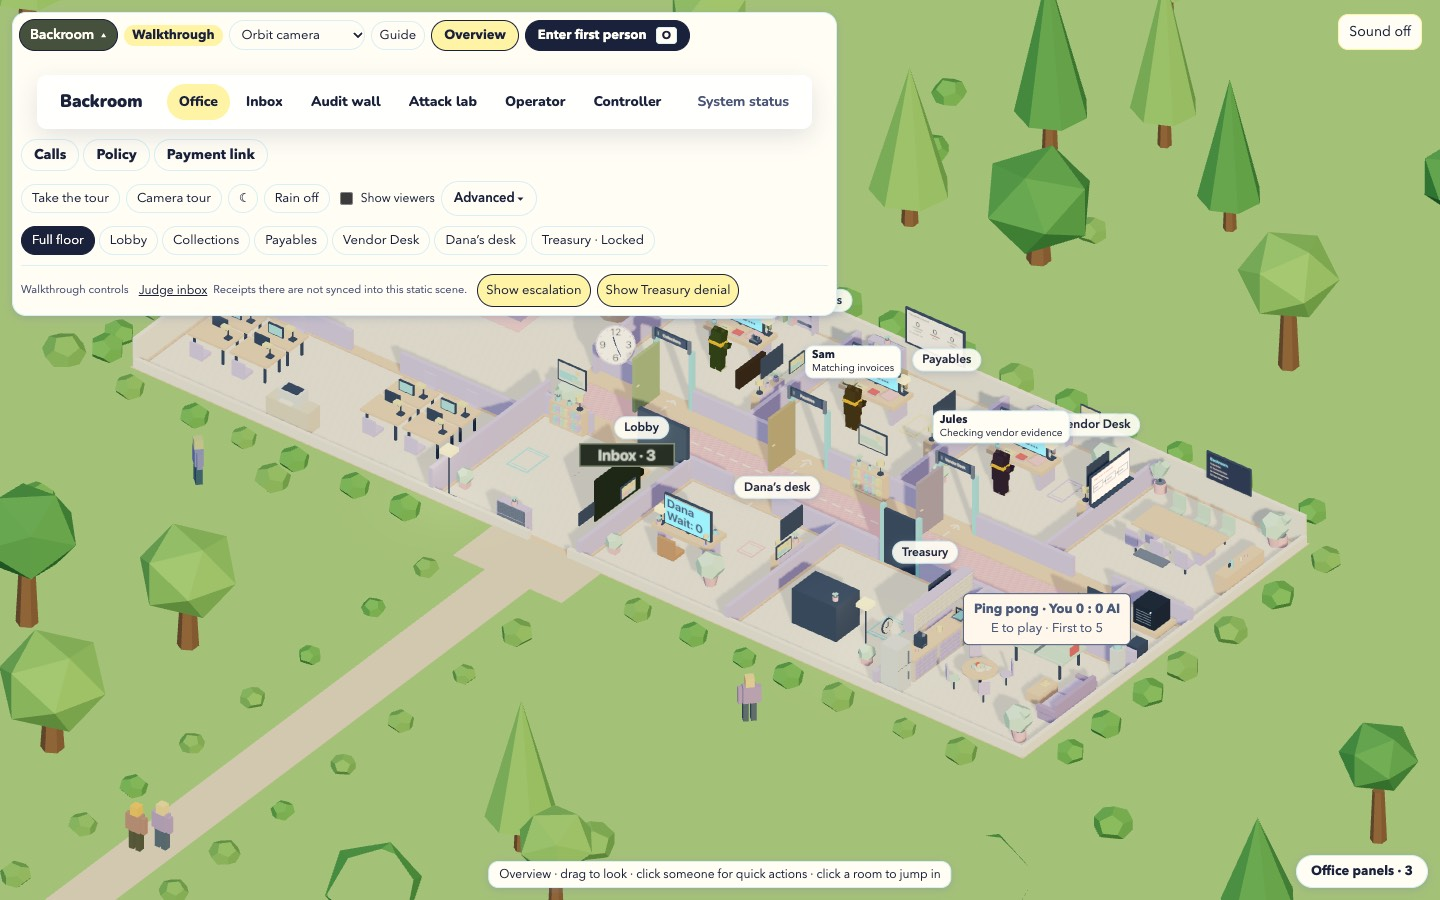
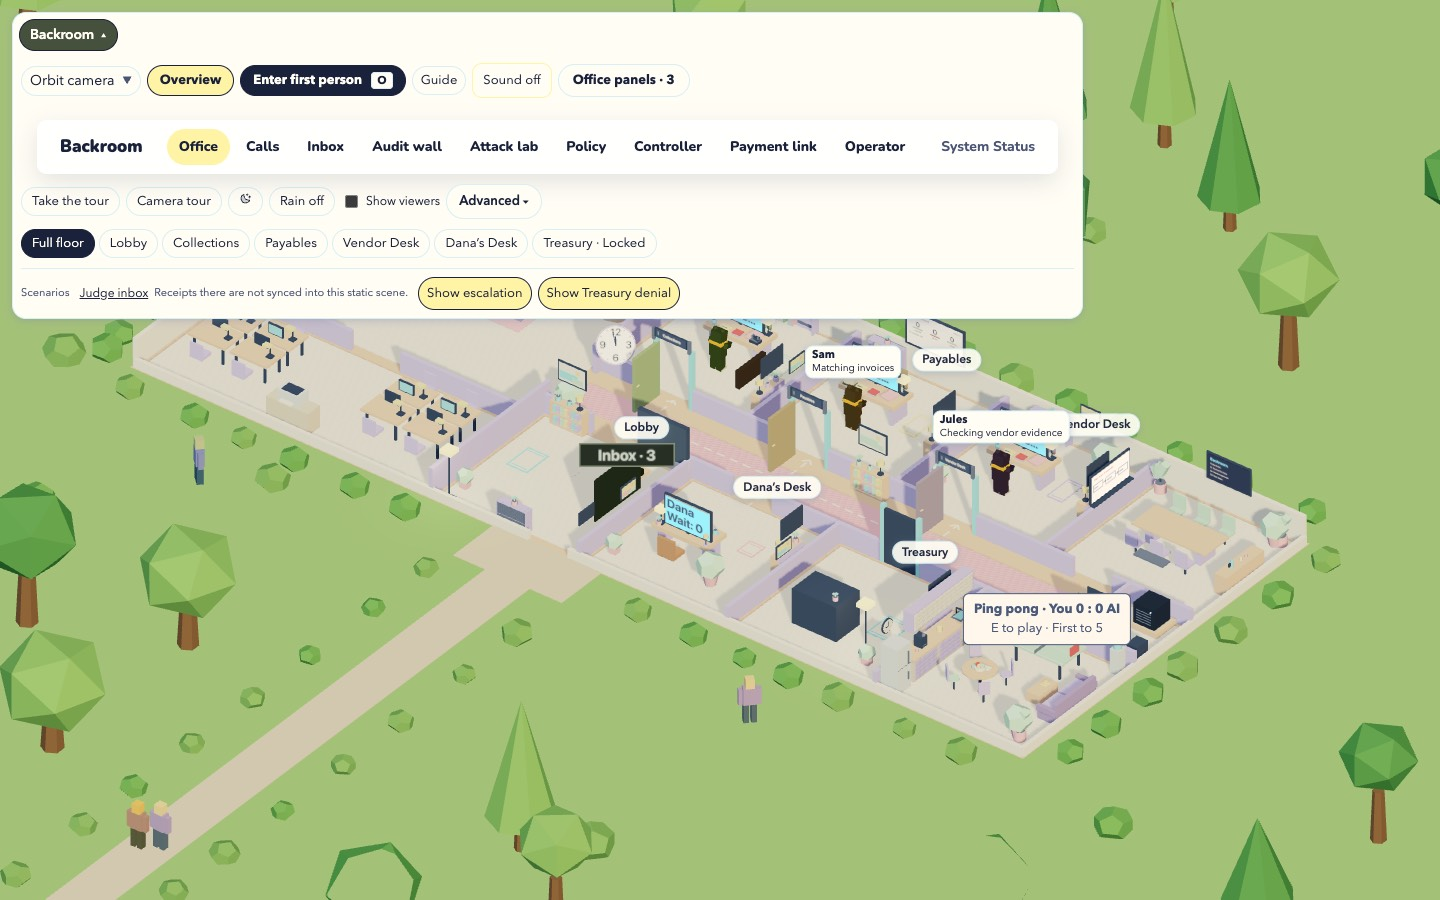
fix(office): the site nav already lists Calls, Policy and Payment link; refreshed office screenshots

diff --git a/web/app/office/hud/diegetic/diegetic.css b/web/app/office/hud/diegetic/diegetic.css
@@ -191,10 +191,6 @@ html body .office-shell .office-viewport.office-viewport { position: fixed; inse
 .office-shell .office-corner-quick { display: flex; flex-wrap: wrap; align-items: center; gap: 6px; }
 .office-shell .office-corner .office-sound-toggle, .office-shell .office-corner .office-drawer-toggle { position: static; box-shadow: none; }
 .office-shell .office-corner-panel .site-nav { border-radius: 10px; flex-wrap: wrap; }
-.office-shell .office-corner-panel .office-more-screens ul { display: flex; flex-wrap: wrap; gap: 4px; margin: 0; padding: 0; list-style: none; }
-.office-shell .office-corner-panel .office-more-screens a { display: inline-flex; align-items: center; min-height: 32px; padding: 4px 12px; font-weight: 700; color: var(--office-navy);
-  text-decoration: none; background: var(--office-cream); border: 1px solid var(--office-lavender); border-radius: 999px; }
-.office-shell .office-corner-panel .office-more-screens a:hover { background: var(--office-butter); }
 .office-shell .office-corner-panel .office-tools { display: flex; flex-wrap: wrap; align-items: center; gap: 6px; }
 .office-shell .office-corner-panel .office-tools > button, .office-shell .office-corner-panel .room-navigation button {
   padding: 4px 10px; color: var(--office-navy); background: var(--office-cream); border: 1px solid var(--office-lavender); border-radius: 999px; cursor: pointer;

diff --git a/web/app/office/Office.tsx b/web/app/office/Office.tsx
@@ -52,11 +52,6 @@ import { bakedArtRequested } from '../../lib/office/baked-art';
 import { interactionStore } from '../../lib/office/interactions';
 import './office-tokens.css';
 
-/** Screens the shared site nav leaves out, so every page is one click from the corner menu. */
-const OFFICE_MORE_SCREENS = [
-  { label: 'Calls', href: '/calls' }, { label: 'Policy', href: '/policy' }, { label: 'Payment link', href: '/payment-link' },
-] as const;
-
 function SceneLoading({ error }: { error?: Error | null }) {
   // next/dynamic passes load errors to this renderer; let the 3D ViewBoundary handle them.
   if (error) throw error;
@@ -302,7 +297,6 @@ export function Office({ source, controls, onToggleLlm, auditWall, inboxTray, st
             </button>
           </div>
           <SiteNav placement='office' />
-          <nav className='office-more-screens' aria-label='More screens'><ul>{OFFICE_MORE_SCREENS.map(({ label, href }) => <li key={href}><a href={href}>{label}</a></li>)}</ul></nav>
           <div className='office-tools'>
             <button type='button' onClick={() => { setCornerOpen(false); if (storyActive) closeStory(); else startStory(); }}>{storyActive ? 'Skip tour' : 'Take the tour'}</button>
             <button type='button' onClick={() => { setCornerOpen(false); pickMode('tour'); }}>Camera tour</button>
